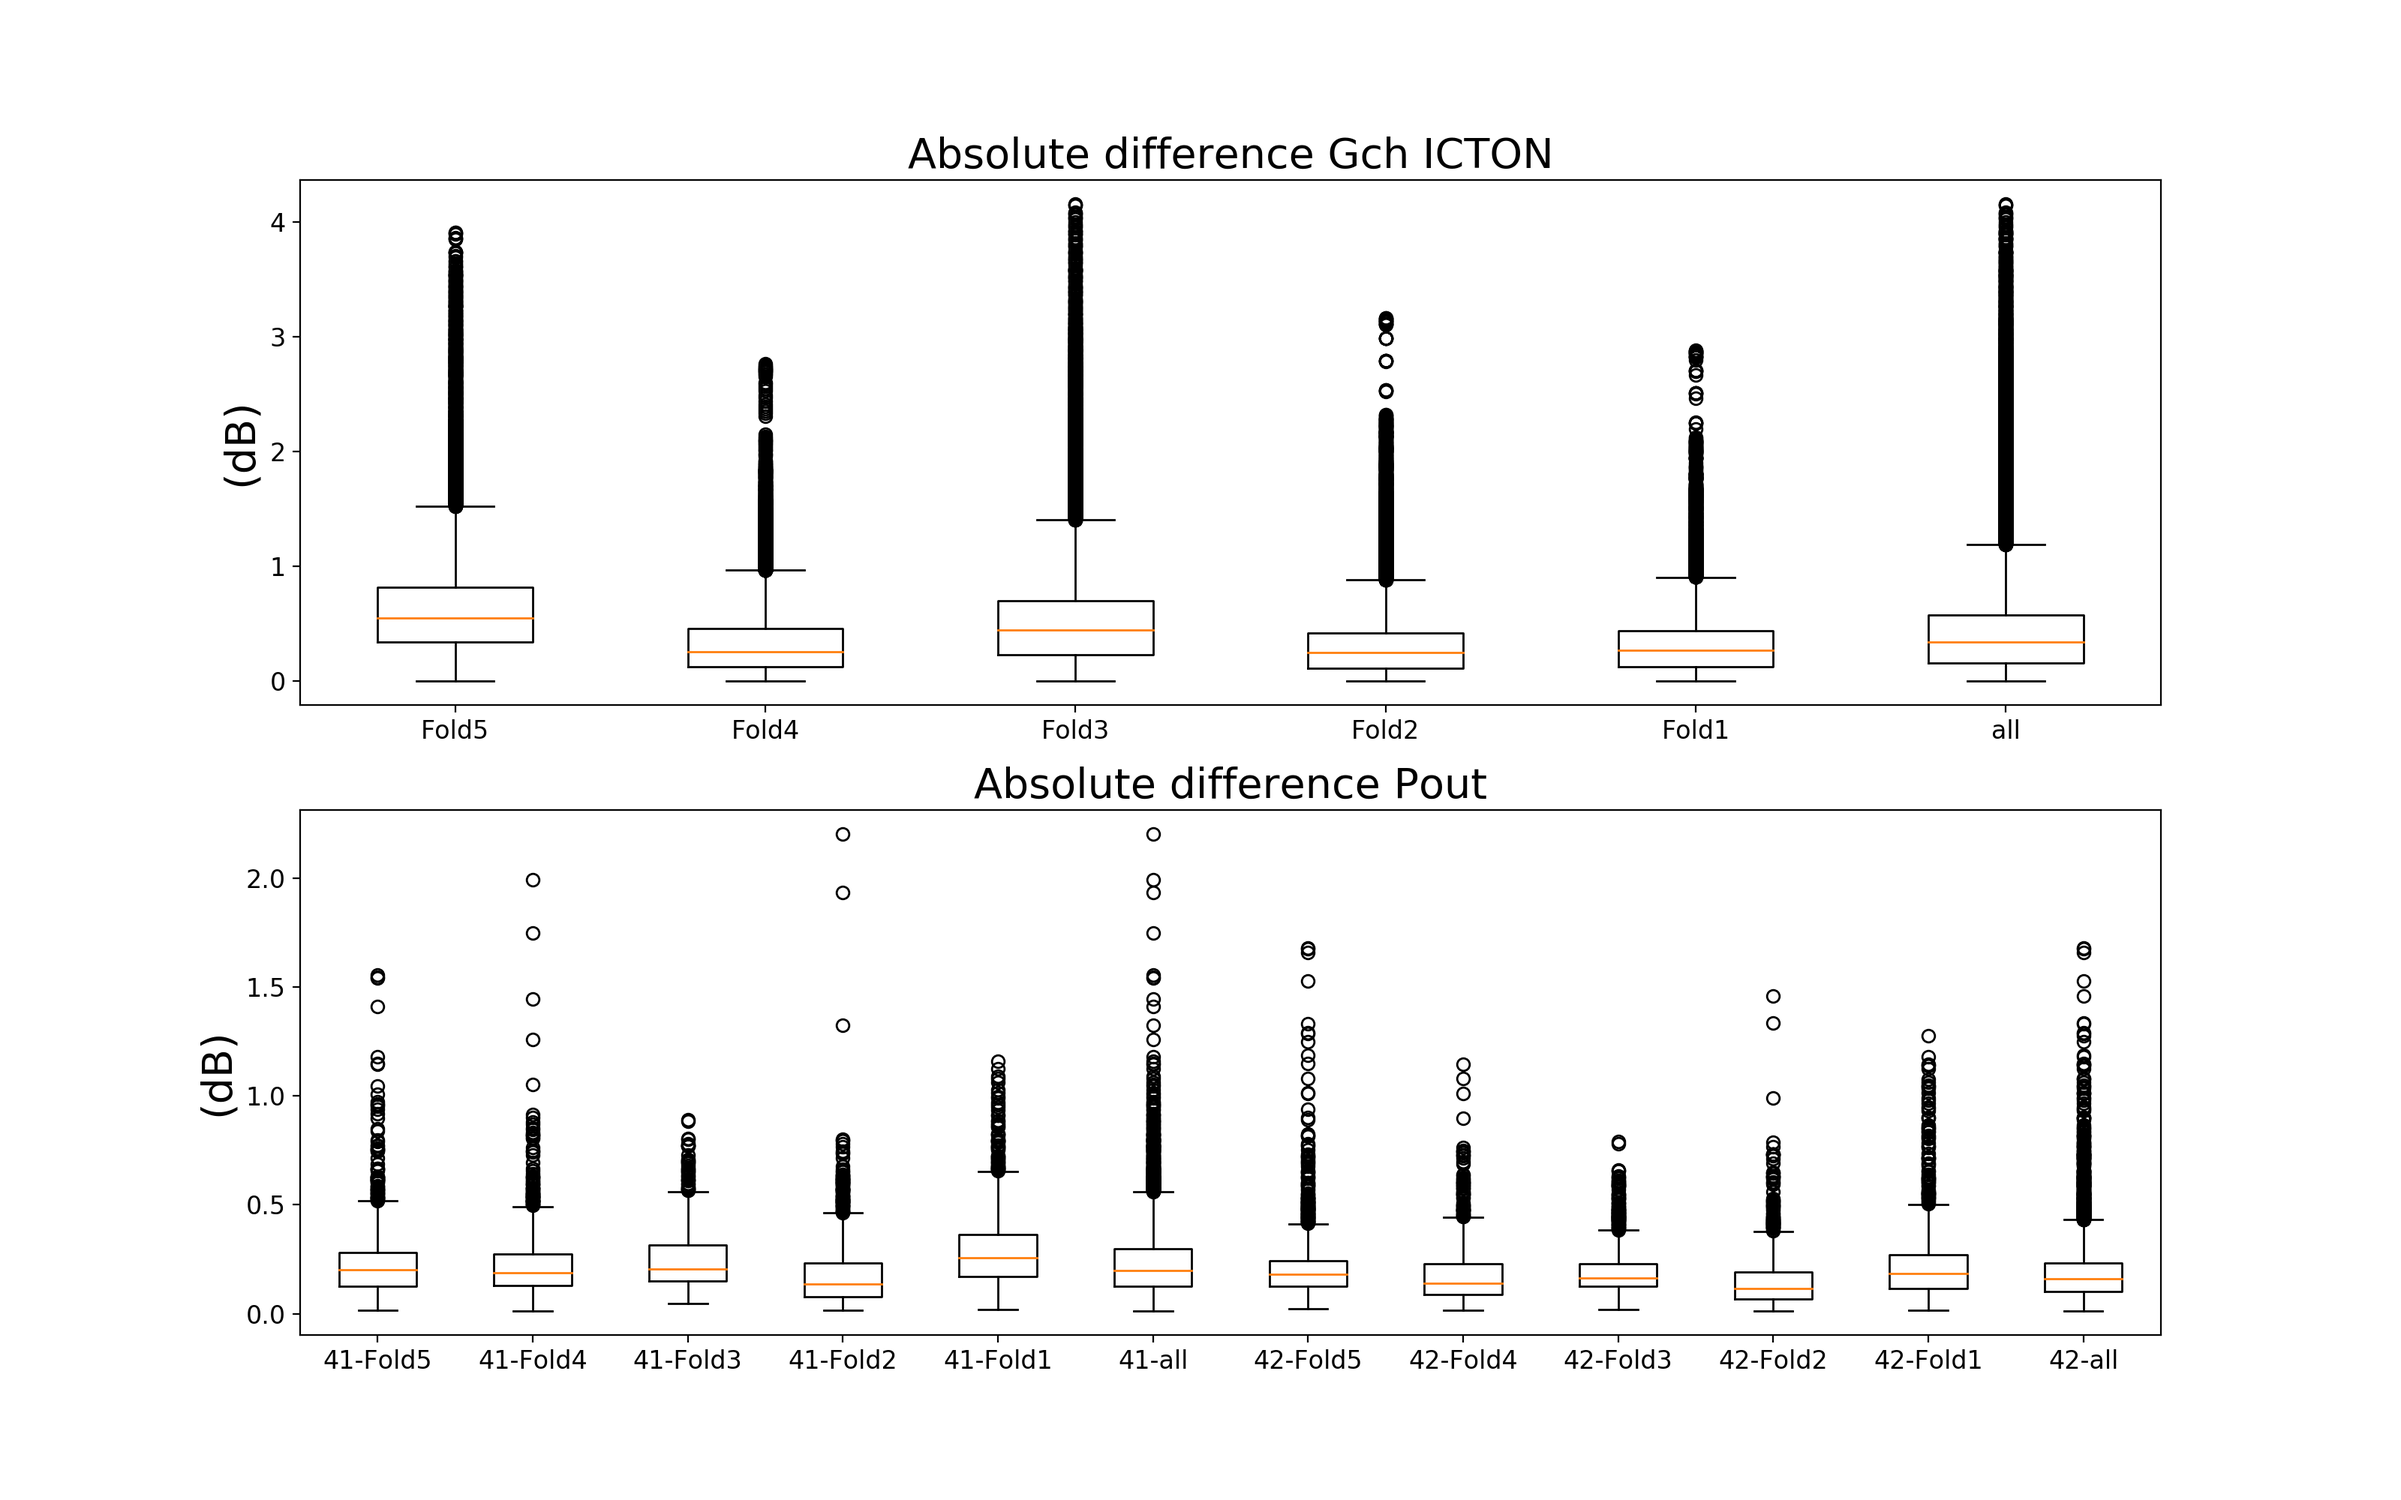
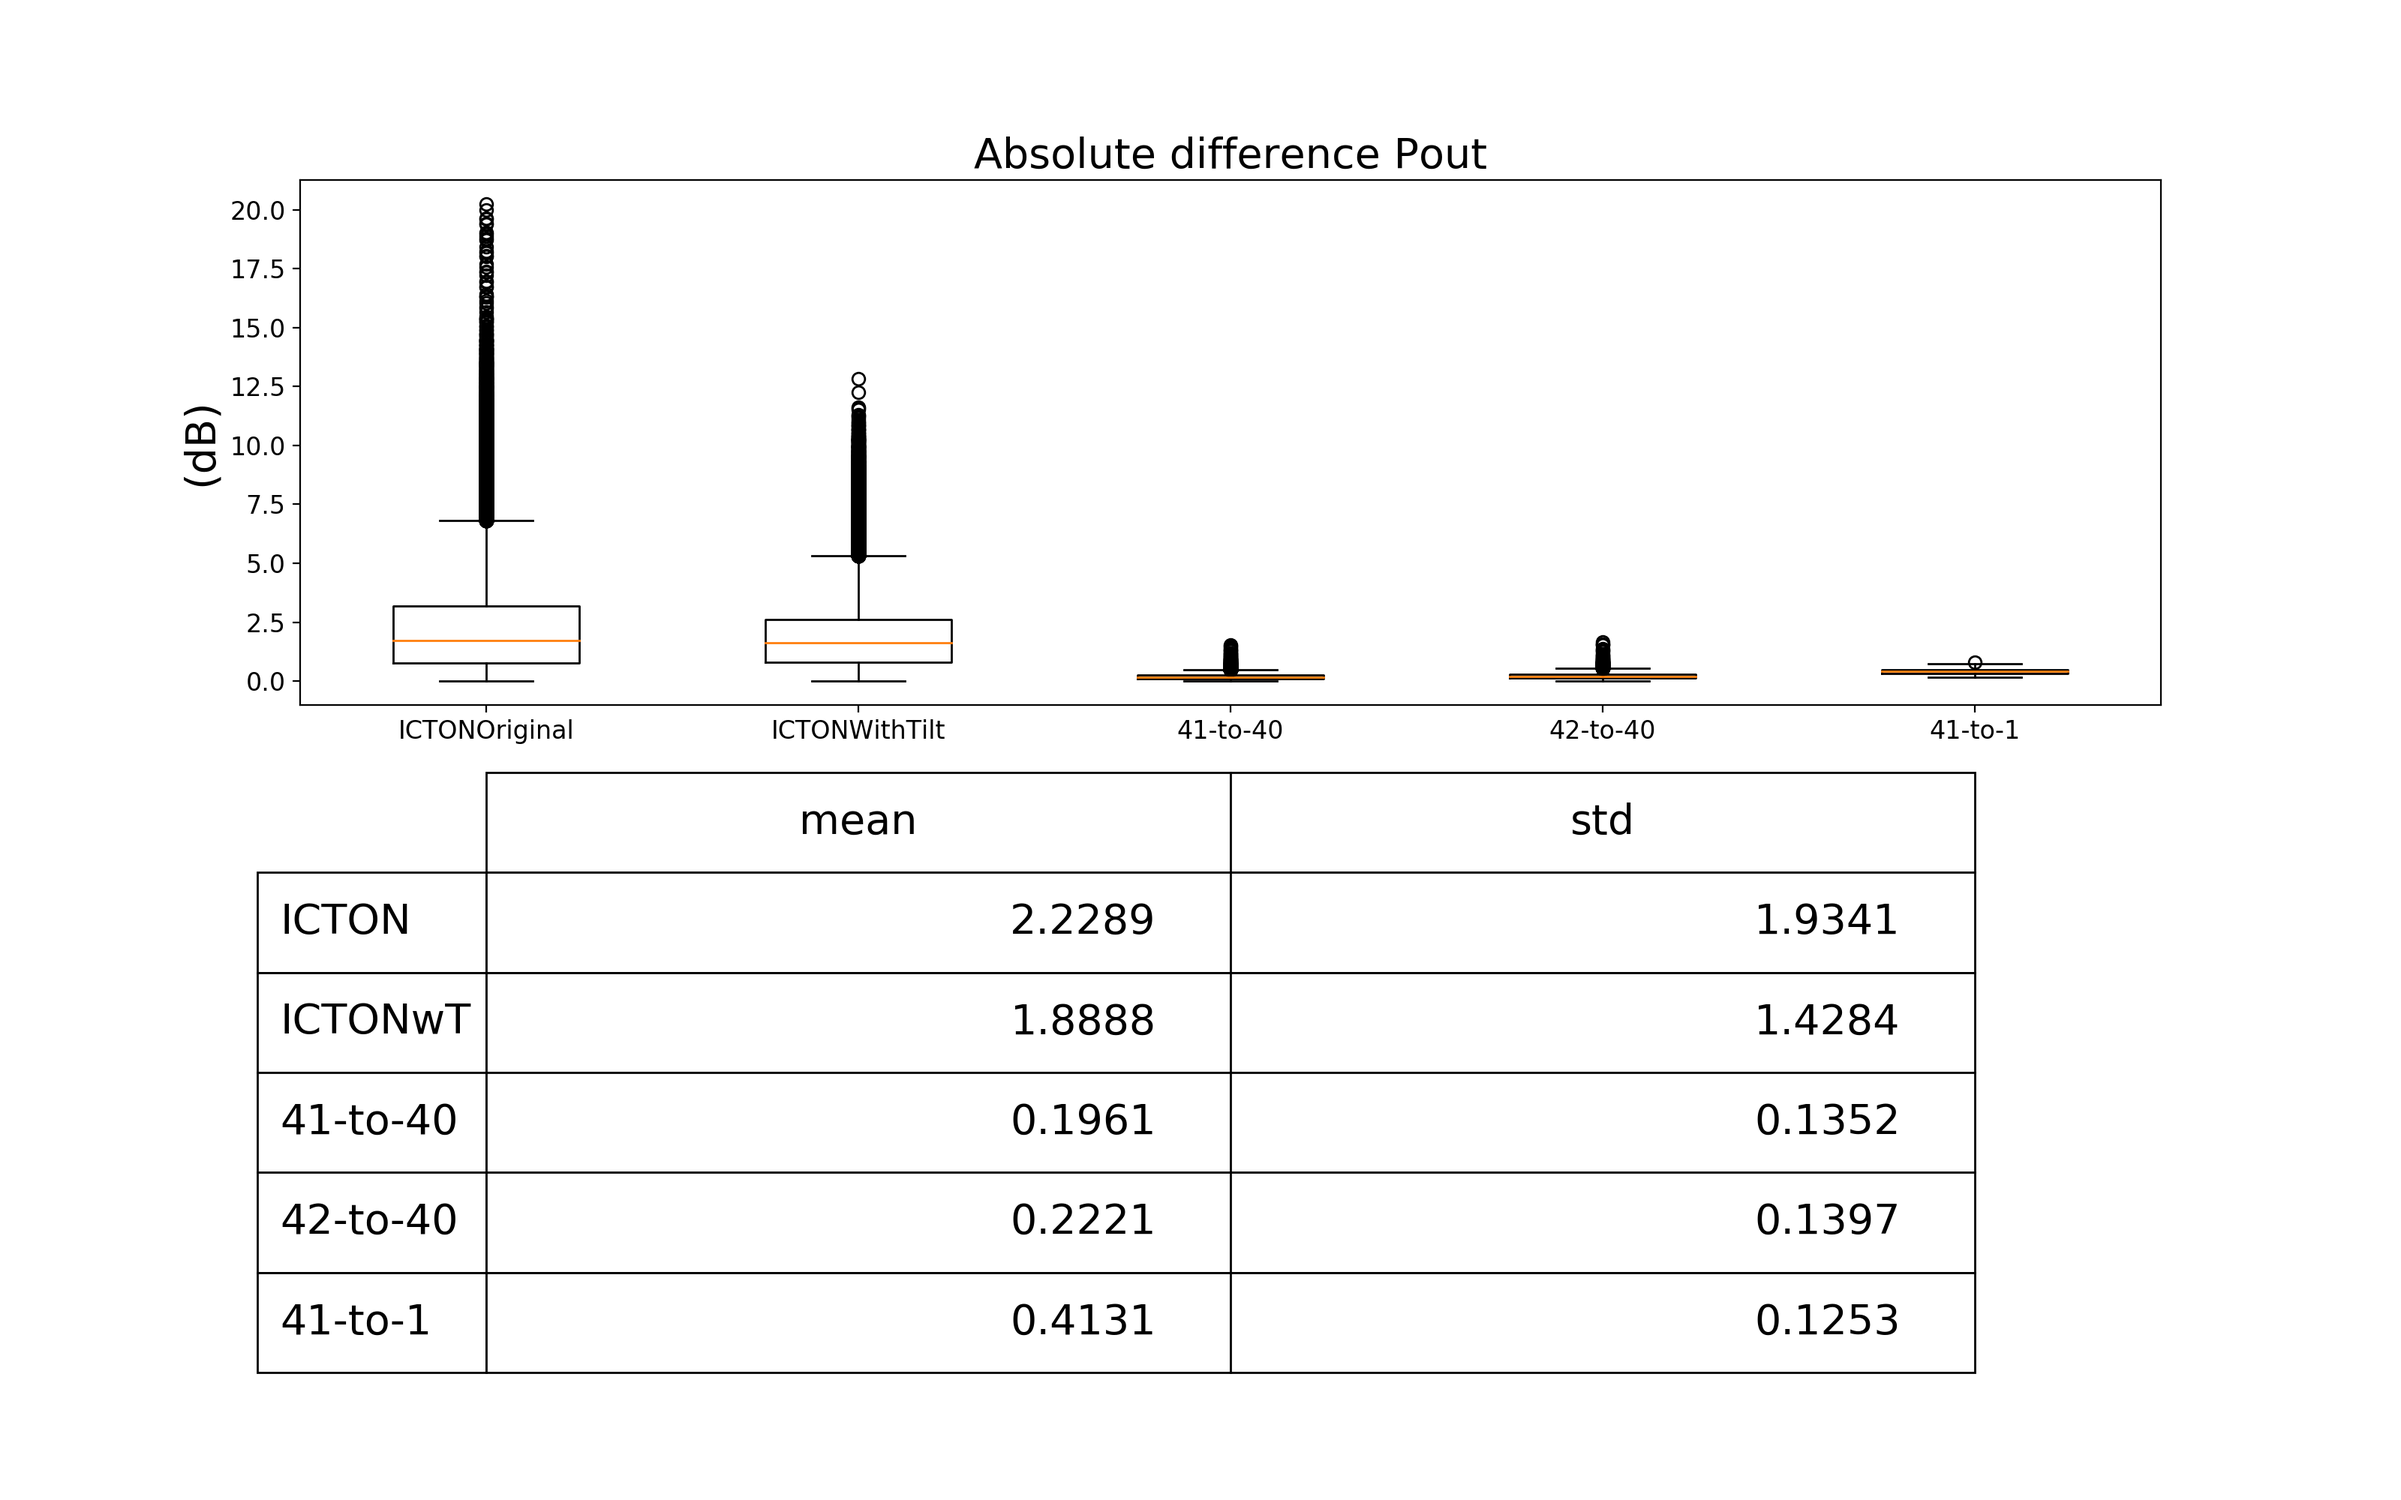
Adicionando 40to1 NN

diff --git a/adaptacao/Second method/Normalization per feature/One Amp (with K-Fold Cross Validation)/errorWithBoxplot.py b/adaptacao/Second method/Normalization per feature/One Amp (with K-Fold Cross Validation)/errorWithBoxplot.py
@@ -594,6 +594,7 @@ for i in range(0, k):
 
     models41to1.append([])
     for j in range(0, number_channels):
+        print(str(i) + str(j))
         model_name = 'models/NN-41to1-' + str(i + 1) + str(j + 1) + '.h5'
         model_current = load_model(model_name)
         models41to1[i].append(model_current)
@@ -618,8 +619,12 @@ for i in range(0, k):
     pred_io.append(modelsictono[i].predict(foldico_x[(k-1)-i]))
     pred_41.append(models41to40[i].predict(fold41_x[(k-1)-i]))
     pred_42.append(models42to40[i].predict(fold42_x[(k-1)-i]))
+    pred_41to1.append([])
+    for j in range(0, number_channels):
+        print(str(i) + str(j) + '2')
+        pred_41to1[i].append(models41to1[i][j].predict(fold41to1_x[(k-1)-i]))
 
-
+print(len(pred_41to1[0]), len(pred_41to1[0][0]))
 
 if DEBUG:
     print(pred_ic[0][0], pred_io[0][0], pred_41[0][0], pred_42[0][0])
@@ -672,7 +677,7 @@ if DEBUG:
 ########## Calcule the error ############
 
 pred_y41 = []
-pred_y41to1= []
+pred_y41to1 = []
 pred_y42 = []
 pred_yic = []
 pred_yio = []
@@ -689,12 +694,18 @@ for i in range(0, len(pred_41)):
     pred_y42.append(unnormalization(pred_42[i], min_pout, max_pout, range_a, range_b))
     pred_yic.append(unnormalizationic(pred_ic[i], min_gch, max_gch, min_nf, max_nf, range_a, range_b))
     pred_yio.append(unnormalizationic(pred_io[i], min_gch, max_gch, min_nf, max_nf, range_a, range_b))
-    
+    pred_y41to1.append([])
+    for j in range(0, number_channels): #pred_41to1[i]
+        pred_y41to1[i].append(unnormalization(pred_41to1[i][j], min_pout, max_pout, range_a, range_b))
 
     test_y41.append(unnormalization(fold41_y[(k-1)-i], min_pout, max_pout, range_a, range_b))
     test_y42.append(unnormalization(fold42_y[(k-1)-i], min_pout, max_pout, range_a, range_b))
+    test_y41to1.append(unnormalization(fold41to1_yt[i], min_pout, max_pout, range_a, range_b))  #only in the inverted order 
     test_yic.append(unnormalizationic(foldic_y[(k-1)-i], min_gch, max_gch, min_nf, max_nf, range_a, range_b))
     test_yio.append(unnormalizationic(foldico_y[(k-1)-i], min_gch, max_gch, min_nf, max_nf, range_a, range_b))
+
+print(test_y41to1[0], pred_y41to1[0][0])
+print(len(test_y41to1[0]), len(pred_y41to1[0][0]))
 
 if DEBUG:
     print(pred_y41[4][0], test_y41[4][0], test_yic[0][0])
@@ -704,6 +715,7 @@ diffs_41 = []
 diffs_42 = []
 diffs_ic = []
 diffs_io = []
+diffs_41to1 = []
 
 for i in range(0 , len(pred_y41)):
     diff_current = []
@@ -734,6 +746,19 @@ for i in range(0 , len(pred_y42)):
 
 if DEBUG:
     print(len(diffs_42))
+
+
+for i in range(0, len(test_y41to1)):
+    diff_current = []
+    for j in range(0, len(test_y41to1[i])): #5
+        current = test_y41to1[i][j]
+        diff = int(0)
+        for k in range(0, len(current)):
+            diff += abs(current[k] - pred_y41to1[i][j][k][0])
+        diff_current.append(diff/len(current))
+    diffs_41to1.append(diff_current)
+
+
 
 diffs_nf = []
 
@@ -793,13 +818,47 @@ if DEBUG:
 
 plt.figure(figsize=(16,10))
 
+plt.subplot(211)
 plt.boxplot([
             np.concatenate((diffs_io[0], diffs_io[1], diffs_io[2], diffs_io[3], diffs_io[4]), axis = 0),
             np.concatenate((diffs_ic[0], diffs_ic[1], diffs_ic[2], diffs_ic[3], diffs_ic[4]), axis = 0),         #icton17 with tilt 
             np.concatenate((diffs_41[0], diffs_41[1], diffs_41[2], diffs_41[3], diffs_41[4]), axis = 0),         #41to40 
-            np.concatenate((diffs_42[0], diffs_42[1], diffs_42[2], diffs_42[3], diffs_42[4]), axis = 0)])        #42to40 with tilt
+            np.concatenate((diffs_42[0], diffs_42[1], diffs_42[2], diffs_42[3], diffs_42[4]), axis = 0),         #42to40 with tilt
+            np.concatenate((diffs_41to1[0], diffs_41to1[1], diffs_41to1[2], diffs_41to1[3], diffs_41to1[4]), axis = 0)
+            ])        
 plt.title('Absolute difference Pout')
-plt.xticks([1, 2, 3, 4], ['ICTONOriginal', 'ICTONWithTilt', '41-to-40', '42-to40'])
+plt.xticks([1, 2, 3, 4, 5], ['ICTONOriginal', 'ICTONWithTilt', '41-to-40', '42-to-40', '41-to-1'])
 plt.ylabel('(dB)')
 
+plt.subplot(212)
+io = np.concatenate((diffs_io[0], diffs_io[1], diffs_io[2], diffs_io[3], diffs_io[4]), axis = 0)
+ic = np.concatenate((diffs_ic[0], diffs_ic[1], diffs_ic[2], diffs_ic[3], diffs_ic[4]), axis = 0)
+n4140 = np.concatenate((diffs_41[0], diffs_41[1], diffs_41[2], diffs_41[3], diffs_41[4]), axis = 0)
+n4240 = np.concatenate((diffs_42[0], diffs_42[1], diffs_42[2], diffs_42[3], diffs_42[4]), axis = 0)
+n411  = np.concatenate((diffs_41to1[0], diffs_41to1[1], diffs_41to1[2], diffs_41to1[3], diffs_41to1[4]), axis = 0)
+
+col_labels = ['mean', 'std']
+row_labels = ['ICTON', 'ICTONwT', '41-to-40', '42-to-40', '41-to-1']
+
+table_vals = [[round(np.mean(io), 4), round(np.std(io), 4)], 
+              [round(np.mean(ic), 4), round(np.std(ic), 4)], 
+              [round(np.mean(n4140), 4), round(np.std(n4140), 4)],
+              [round(np.mean(n4240), 4), round(np.std(n4240), 4)], 
+              [round(np.mean(n411), 4), round(np.std(n411), 4)]]
+
+# Draw table
+the_table = plt.table(cellText=table_vals,
+                      colWidths=[0.1] * 3,
+                      rowLabels=row_labels,
+                      colLabels=col_labels,
+                      loc='center')
+the_table.auto_set_font_size(False)
+the_table.set_fontsize(20)
+the_table.scale(4, 4)
+plt.tick_params(axis='x', which='both', bottom=False, top=False, labelbottom=False)
+plt.tick_params(axis='y', which='both', right=False, left=False, labelleft=False)
+for pos in ['right','top','bottom','left']:
+    plt.gca().spines[pos].set_visible(False)
+
 plt.savefig('DifferentsNNsBoxPlot.png', dpi = 200)
+
